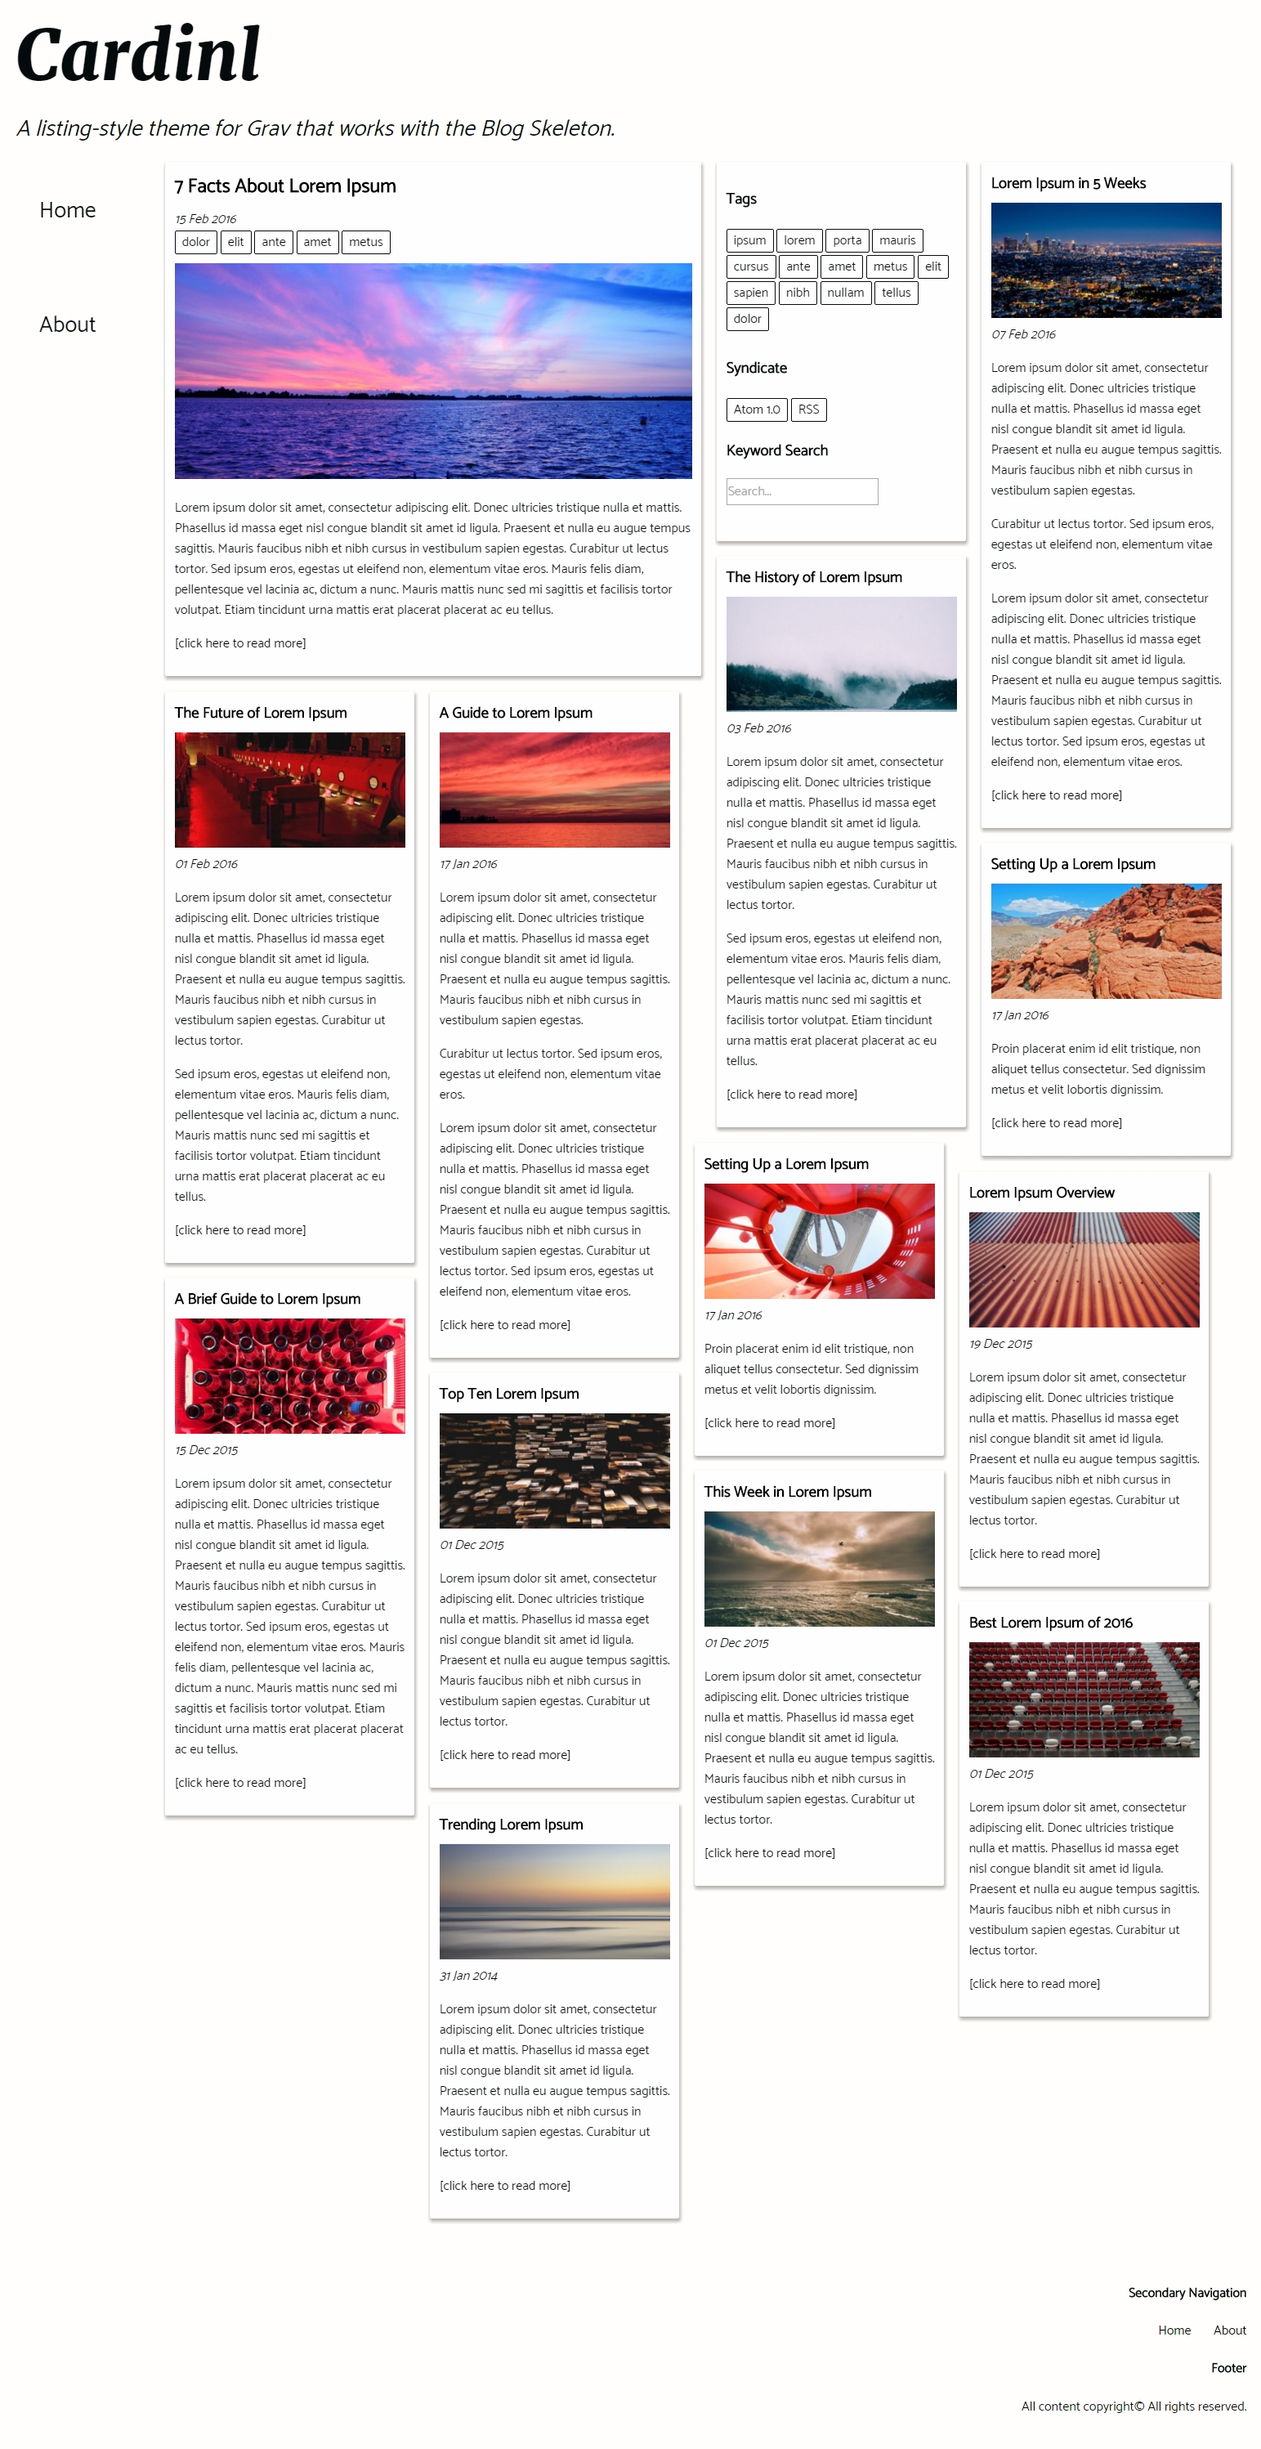
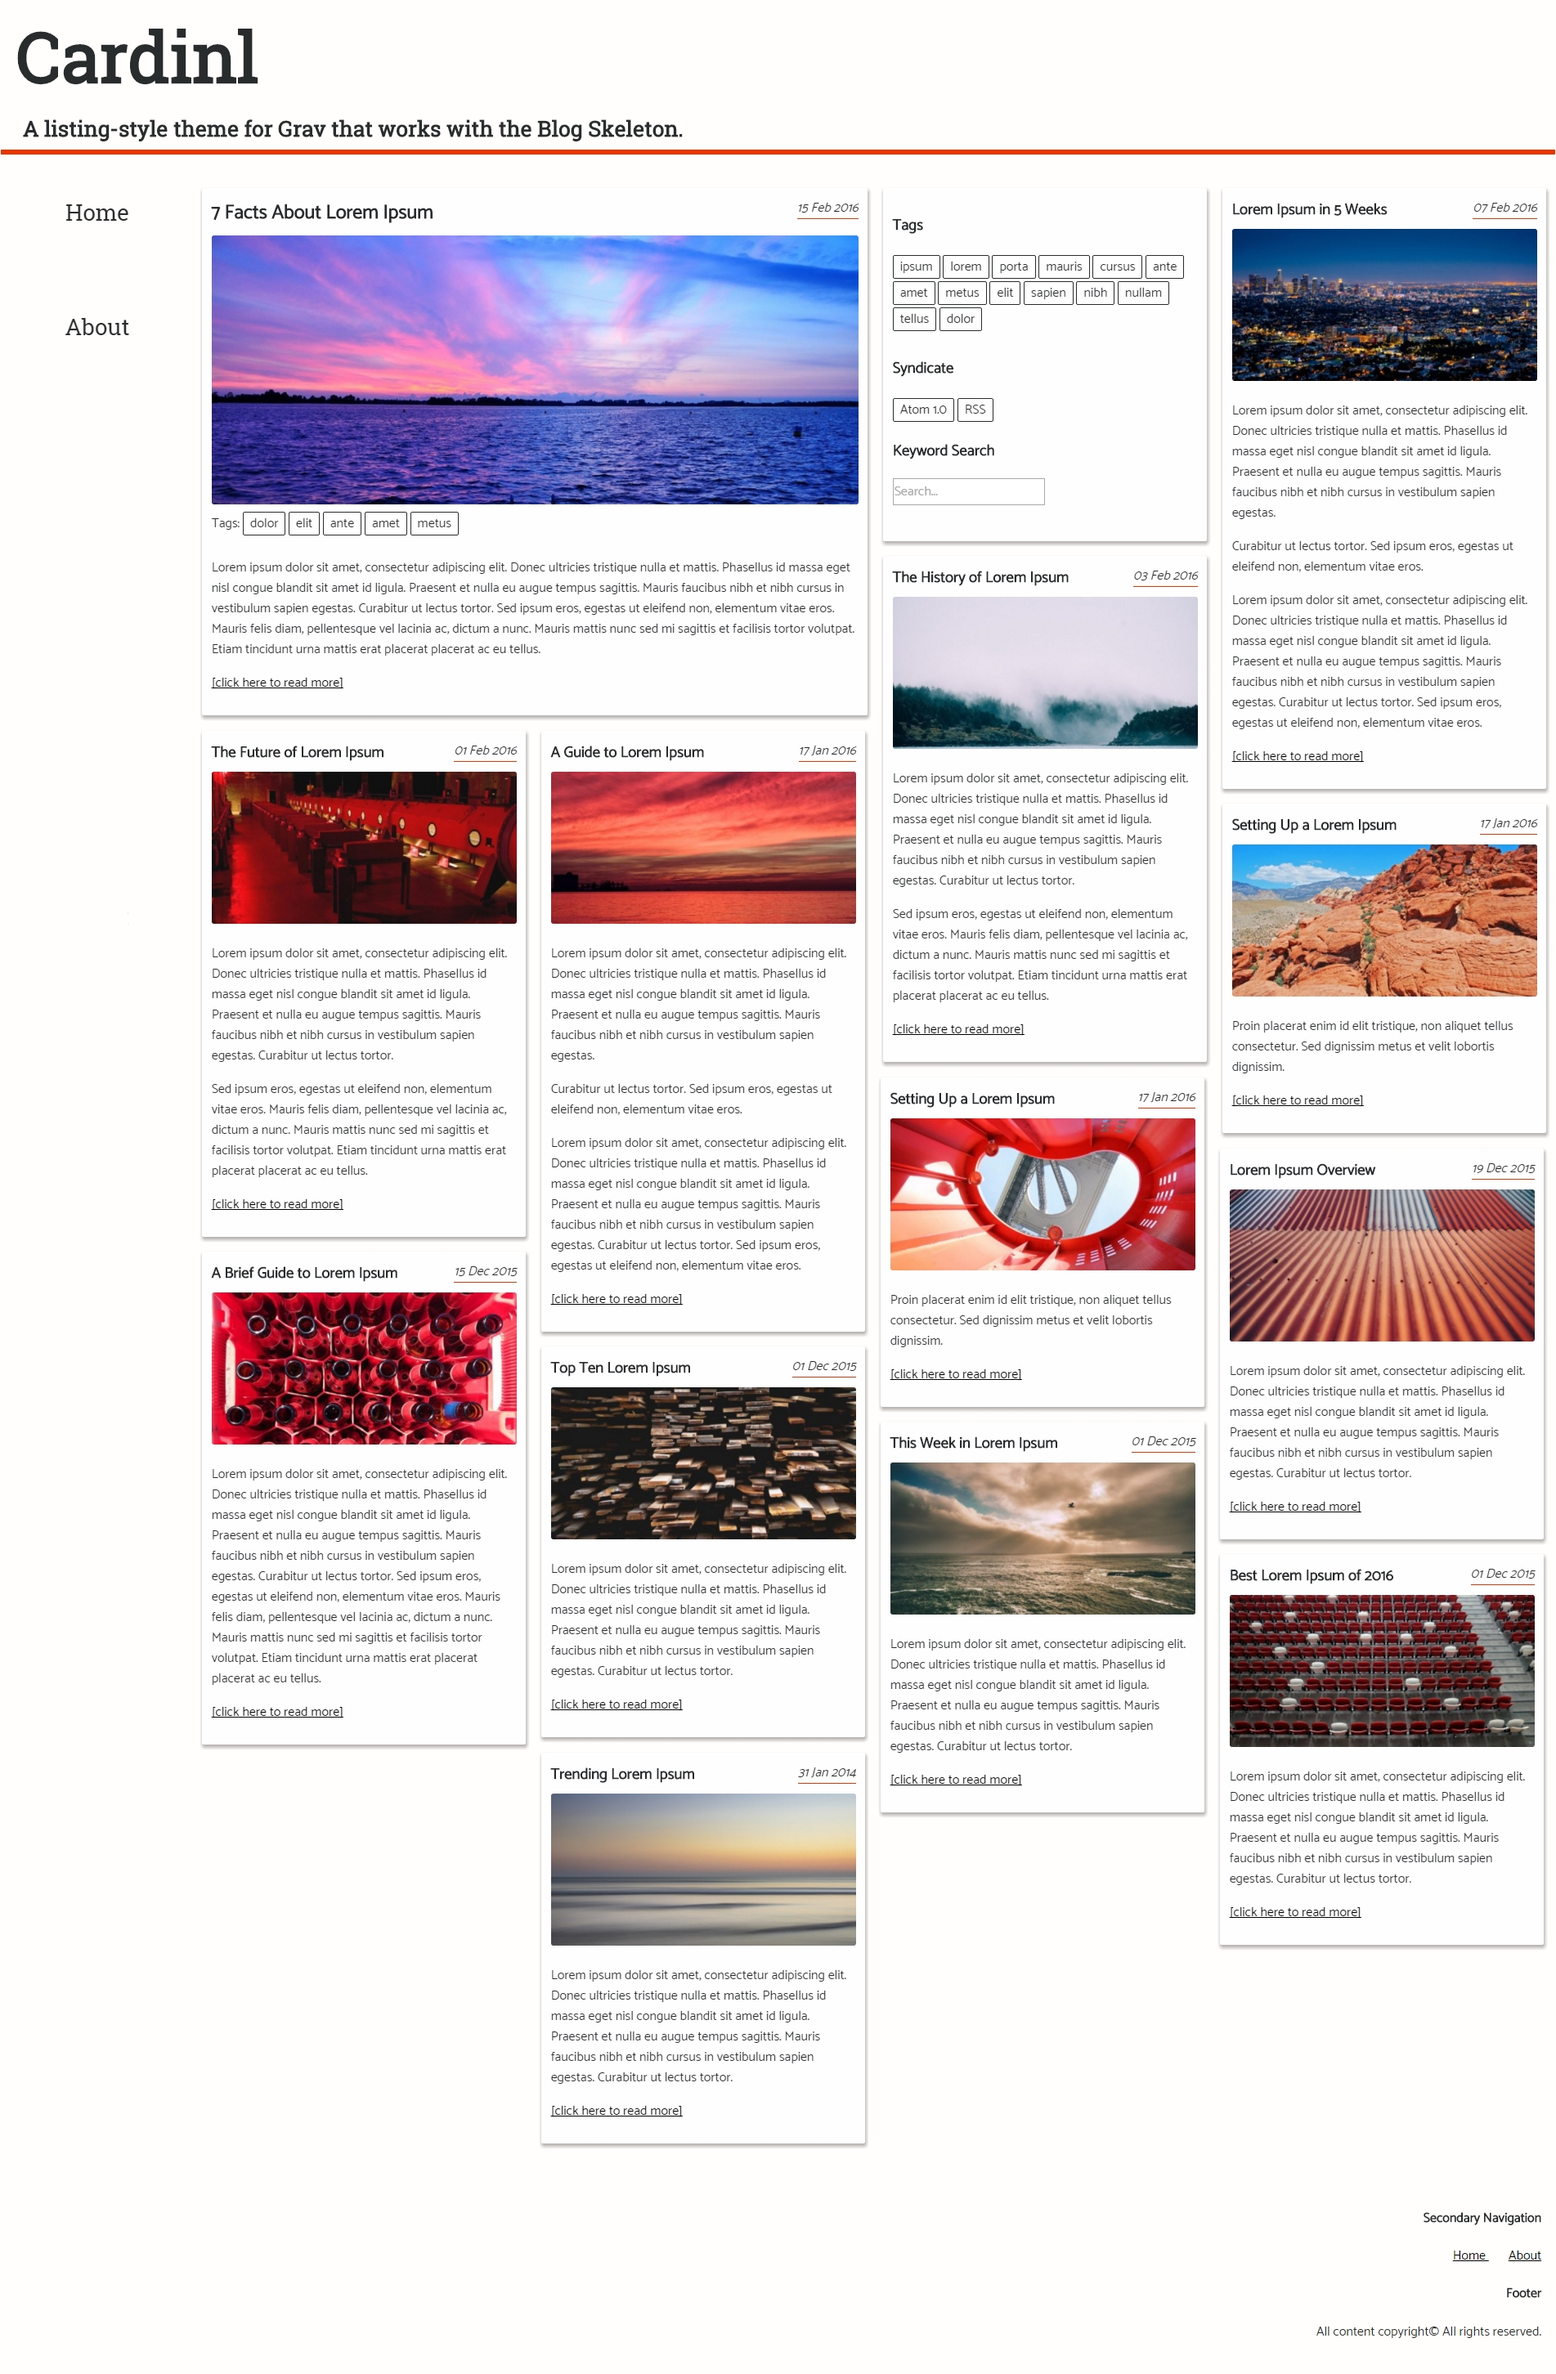
update styles (fonts, colors); remove unused scss modules; update screenshot

Changed region(s): [[0.0, 0.0, 0.9955, 0.9298], [0.9021, 0.9298, 0.9955, 0.9917], [0.0311, 0.124, 0.0933, 0.155]]

diff --git a/themes/cardinl/css-compiled/main.css b/themes/cardinl/css-compiled/main.css
@@ -385,22 +385,22 @@ th {
   padding: 0 2px; }
 
 .rrssb-buttons li.rrssb-facebook a:link {
-  background-color: #8c8c8c !important; }
+  background-color: #EF3300 !important; }
 
 .rrssb-buttons li.rrssb-tumblr a:link {
-  background-color: #8c8c8c !important; }
+  background-color: #EF3300 !important; }
 
 .rrssb-buttons li.rrssb-twitter a:link {
-  background-color: #8c8c8c !important; }
+  background-color: #EF3300 !important; }
 
 .rrssb-buttons li.rrssb-googleplus a:link {
-  background-color: #8c8c8c !important; }
+  background-color: #EF3300 !important; }
 
 .rrssb-buttons li.rrssb-reddit a:link {
-  background-color: #8c8c8c !important; }
+  background-color: #EF3300 !important; }
 
 .rrssb-buttons li.rrssb-pinterest a:link {
-  background-color: #8c8c8c !important; }
+  background-color: #EF3300 !important; }
 
 .rrssb-buttons li.rrssb-facebook a:hover {
   background-color: #306199 !important; }
@@ -469,7 +469,7 @@ html {
   box-sizing: inherit; }
 
 body {
-  color: #050A0C;
+  color: #292C2D;
   line-height: 1.6;
   font-family: "Catamaran", sans-serif;
   height: 100%;
@@ -504,7 +504,7 @@ a:visited {
 
 a:hover {
   text-decoration: none;
-  color: red; }
+  color: #EF3300; }
 
 a:active {
   text-decoration: none;
@@ -548,8 +548,12 @@ having to adjust column or card sizing*/
 /*container layout for masonry*/
 .container {
   float: right;
-  background-color: inherit; }
+  background-color: inherit;
+  padding-top: .25rem; }
 
+@media (min-width: 84em) {
+  .container {
+    padding-top: 2rem; } }
 /*page-loading animation, gives masonry time to adjust */
 @-moz-keyframes containerLoad {
   from {
@@ -585,9 +589,8 @@ header styles
   display: block;
   padding: 0;
   font-size: 2.488rem;
-  font-family: "Merriweather", "Georgia", "Utopia", "Charter", serif;
-  font-style: italic;
-  color: #050A0C; }
+  font-family: "Roboto Slab", "Georgia", "Utopia", "Charter", serif;
+  color: #292C2D; }
 
 /*content-based breakpoints for responsive title text*/
 @media (min-width: 35.5em) {
@@ -609,9 +612,9 @@ header styles
 .subtitle {
   display: block;
   font-size: 1rem;
-  font-weight: 400;
-  font-style: italic;
-  color: #050A0C; }
+  font-family: "Roboto Slab", "Georgia", "Utopia", "Charter", serif;
+  padding-left: .5rem;
+  color: #292C2D; }
 
 /*content-based breakpoints for responsive sub-title text*/
 @media (min-width: 25em) {
@@ -625,7 +628,7 @@ header styles
     font-size: 1.35rem; } }
 @media (min-width: 84em) {
   .subtitle {
-    font-size: 1.75rem; } }
+    font-size: 1.65rem; } }
 /*fast fade-in-first animation for top line of header text*/
 @-moz-keyframes headerLoad {
   from {
@@ -656,9 +659,11 @@ header styles
 /*content-based breakpoints for responsive header height*/
 #header {
   padding: 0rem 0rem 0rem .4rem;
+  margin-left: .05rem;
   float: left;
   height: 7.2rem;
-  background-color: inherit; }
+  background-color: inherit;
+  border-bottom: 6px solid #EF3300; }
 
 @media (min-width: 48em) {
   #header {
@@ -703,15 +708,16 @@ header styles
     text-decoration: none;
     color: #000; }
   .syndicate a {
-    border: 1px solid #050A0C;
+    border: 1px solid #292C2D;
     padding: 0rem .5rem 0rem .5rem;
     border-radius: 2px;
-    color: #050A0C; }
+    color: #292C2D; }
   .syndicate a:hover {
-    border: 1px solid red;
+    border: 1px solid #EF3300;
     padding: 0rem .5rem 0rem .5rem;
     border-radius: 2px;
-    color: red; }
+    color: #FFFEFF;
+    background-color: #EF3300; }
 
 /*-----------------------------------------------------------------------------
 navigation bar styles
@@ -740,23 +746,23 @@ navigation bar styles
     list-style: none;
     text-align: center;
     padding-left: .5rem;
-    font-family: "Catamaran", sans-serif;
+    font-family: "Roboto Slab", "Georgia", "Utopia", "Charter", serif;
     font-style: normal;
     font-size: 1.08rem; }
   .menubar ul {
     margin: 2; }
   .menubar a:link {
     text-decoration: none;
-    color: #050A0C; }
+    color: #292C2D; }
   .menubar a:visited {
     text-decoration: none;
-    color: #050A0C; }
+    color: #292C2D; }
   .menubar a:hover {
     text-decoration: none;
-    color: red; }
+    color: #EF3300; }
   .menubar a:active {
     text-decoration: none;
-    color: #050A0C; }
+    color: #292C2D; }
 
 @media (min-width: 48em) {
   .menubar li {
@@ -844,23 +850,24 @@ navigation bar styles
   padding-bottom: .5rem; }
 .list-blog-header a:link {
   text-decoration: none;
-  color: #050A0C; }
+  color: #292C2D; }
 .list-blog-header a:visited {
   text-decoration: none;
-  color: #050A0C; }
+  color: #292C2D; }
 .list-blog-header a:hover {
   text-decoration: none;
-  color: red; }
+  color: #EF3300; }
 .list-blog-header a:active {
   text-decoration: none;
-  color: #050A0C; }
+  color: #292C2D; }
 
 .blog-item-title {
   display: inline;
   float: left; }
 
 .list-blog-date {
-  float: right; }
+  float: right;
+  border-bottom: 1px solid #EF3300; }
 
 .list-blog-top {
   height: 2.5rem; }
@@ -872,15 +879,16 @@ navigation bar styles
     text-decoration: none;
     color: #000; }
   .tag-group a {
-    border: 1px solid #050A0C;
+    border: 1px solid #292C2D;
     padding: 0rem .5rem 0rem .5rem;
     border-radius: 2px;
-    color: #050A0C; }
+    color: #292C2D; }
   .tag-group a:hover {
-    border: 1px solid red;
+    border: 1px solid #EF3300;
     padding: 0rem .5rem 0rem .5rem;
     border-radius: 2px;
-    color: red; }
+    color: #FFFEFF;
+    background-color: #EF3300; }
 
 .tags {
   padding-bottom: .5rem; }

diff --git a/themes/cardinl/scss/module/_header.scss b/themes/cardinl/scss/module/_header.scss
@@ -8,7 +8,6 @@ header styles
 	padding: 0;
 	font-size: $h3-font-size;
 	font-family:$heading-font-stack;
-	font-style: italic;
 	color:$core-text-color;
 }
 /*content-based breakpoints for responsive title text*/
@@ -41,8 +40,8 @@ header styles
 .subtitle{
 	display:block;
 	font-size: $base-font-size;
-	font-weight: 400;
-	font-style: italic;
+	font-family:$heading-font-stack;
+	padding-left: .5rem;
 	color:$core-text-color;
 }
 /*content-based breakpoints for responsive sub-title text*/
@@ -63,7 +62,7 @@ header styles
 }
 @media (min-width: 84em){
 	.subtitle{
-		font-size: $base-font-size + .75rem;
+		font-size: $base-font-size + .65rem;
     }
 }
 /*fast fade-in-first animation for top line of header text*/
@@ -84,9 +83,11 @@ header styles
 /*content-based breakpoints for responsive header height*/
 #header{
 	padding: 0rem 0rem 0rem .4rem;
+	margin-left:.05rem;
 	float:left;
 	height:$header-height - 3.8;
 	background-color: inherit;
+	border-bottom:6px solid $core-accent;
 }
 
 @media (min-width: 48em){

diff --git a/themes/cardinl/scss/base/_rrssb.scss b/themes/cardinl/scss/base/_rrssb.scss
@@ -29,22 +29,22 @@
     padding:0 2px
 }
 .rrssb-buttons li.rrssb-facebook a:link{
-    background-color: #8c8c8c !important;
+    background-color: $core-accent !important;
 }
 .rrssb-buttons li.rrssb-tumblr a:link{
-    background-color: #8c8c8c !important;
+    background-color: $core-accent !important;
 }
 .rrssb-buttons li.rrssb-twitter a:link{
-    background-color: #8c8c8c !important;
+    background-color: $core-accent !important;
 }
 .rrssb-buttons li.rrssb-googleplus a:link{
-    background-color: #8c8c8c !important;
+    background-color: $core-accent !important;
 }
 .rrssb-buttons li.rrssb-reddit a:link{
-    background-color: #8c8c8c !important;
+    background-color: $core-accent !important;
 }
 .rrssb-buttons li.rrssb-pinterest a:link{
-    background-color: #8c8c8c !important;
+    background-color: $core-accent !important;
 }
 .rrssb-buttons li.rrssb-facebook a:hover{
     background-color: #306199 !important;

diff --git a/themes/cardinl/scss/module/_container.scss b/themes/cardinl/scss/module/_container.scss
@@ -2,8 +2,13 @@
 .container{
     float:right;
     background-color: inherit;
+    padding-top:.25rem;
  }
-
+@media (min-width: 84em){
+	.container{
+    	padding-top:2rem;
+ 	}
+}
  /*page-loading animation, gives masonry time to adjust */
 @-moz-keyframes containerLoad { from { opacity:0; } to { opacity:1; } }
 @-webkit-keyframes containerLoad { from { opacity:0; } to { opacity:1; } }

diff --git a/themes/cardinl/scss/base/_typography.scss b/themes/cardinl/scss/base/_typography.scss
@@ -15,6 +15,6 @@ $h6-font-size:					$base-font-size * 1.2 !default;
 // Spacing
 $leading-margin:				$base-line-height * 1rem !default;
 
-$heading-font-stack:            'Merriweather','Georgia','Utopia','Charter',serif;
+$heading-font-stack:            'Roboto Slab','Georgia','Utopia','Charter',serif;
 $sub-heading-font-stack:        'Catamaran', sans-serif;
 

diff --git a/themes/cardinl/scss/base/_colors.scss b/themes/cardinl/scss/base/_colors.scss
@@ -1,8 +1,8 @@
 /**/
-$core-text-color:#050A0C;
-$core-accent:red;
+$core-text-color:#292C2D;
+$core-accent:#EF3300;
 $core-background:#FFFEFC;
-$second-background:#D1BBBB;
 $alt-background:#FFFEFF;
 $third-background:#FFE5E5;
-$alt-accent: #1f70ca;
+$alt-accent: #1F70CA;
+$alt-text-color:#8B0B0B;

diff --git a/themes/cardinl/scss/module/_menubar.scss b/themes/cardinl/scss/module/_menubar.scss
@@ -28,7 +28,7 @@ navigation bar styles
 		   list-style:none;
        text-align: center;
 		   padding-left:.5rem;
-       font-family: $sub-heading-font-stack;
+       font-family: $heading-font-stack;
        font-style: normal;
 		   font-size:$h6-font-size * .9;
 	  }

diff --git a/themes/cardinl/scss/main.scss b/themes/cardinl/scss/main.scss
@@ -18,9 +18,6 @@
 @import 'module/header';
 @import 'module/footer';
 @import 'module/sidebar';
-@import 'module/forms';
-@import 'module/buttons';
-@import 'module/tables';
 @import 'module/menubar';
 @import 'module/card';
 @import 'module/item';

diff --git a/themes/cardinl/scss/module/_sidebar.scss b/themes/cardinl/scss/module/_sidebar.scss
@@ -17,7 +17,8 @@
 		border: 1px solid $core-accent;
 		padding: 0rem .5rem 0rem .5rem;
         border-radius: 2px;
-        color: $core-accent;
+        color: $alt-background;
+        background-color:$core-accent;
 	}
 
 }

diff --git a/themes/cardinl/scss/module/_tags.scss b/themes/cardinl/scss/module/_tags.scss
@@ -16,7 +16,8 @@
 		border: 1px solid $core-accent;
 		padding: 0rem .5rem 0rem .5rem;
         border-radius: 2px;
-        color: $core-accent;
+        color: $alt-background;
+        background-color:$core-accent;
 	}
 }
 

diff --git a/themes/cardinl/scss/module/_list-blog-header.scss b/themes/cardinl/scss/module/_list-blog-header.scss
@@ -33,6 +33,7 @@
  }
  .list-blog-date{
  	float:right;
+    border-bottom: 1px solid $core-accent;
  }
 
  .list-blog-top{

diff --git a/themes/cardinl/scss/module/_body.scss b/themes/cardinl/scss/module/_body.scss
@@ -1,4 +1,5 @@
 .body{
 	background: $core-background;
   background-attachment: fixed;
+
 }
